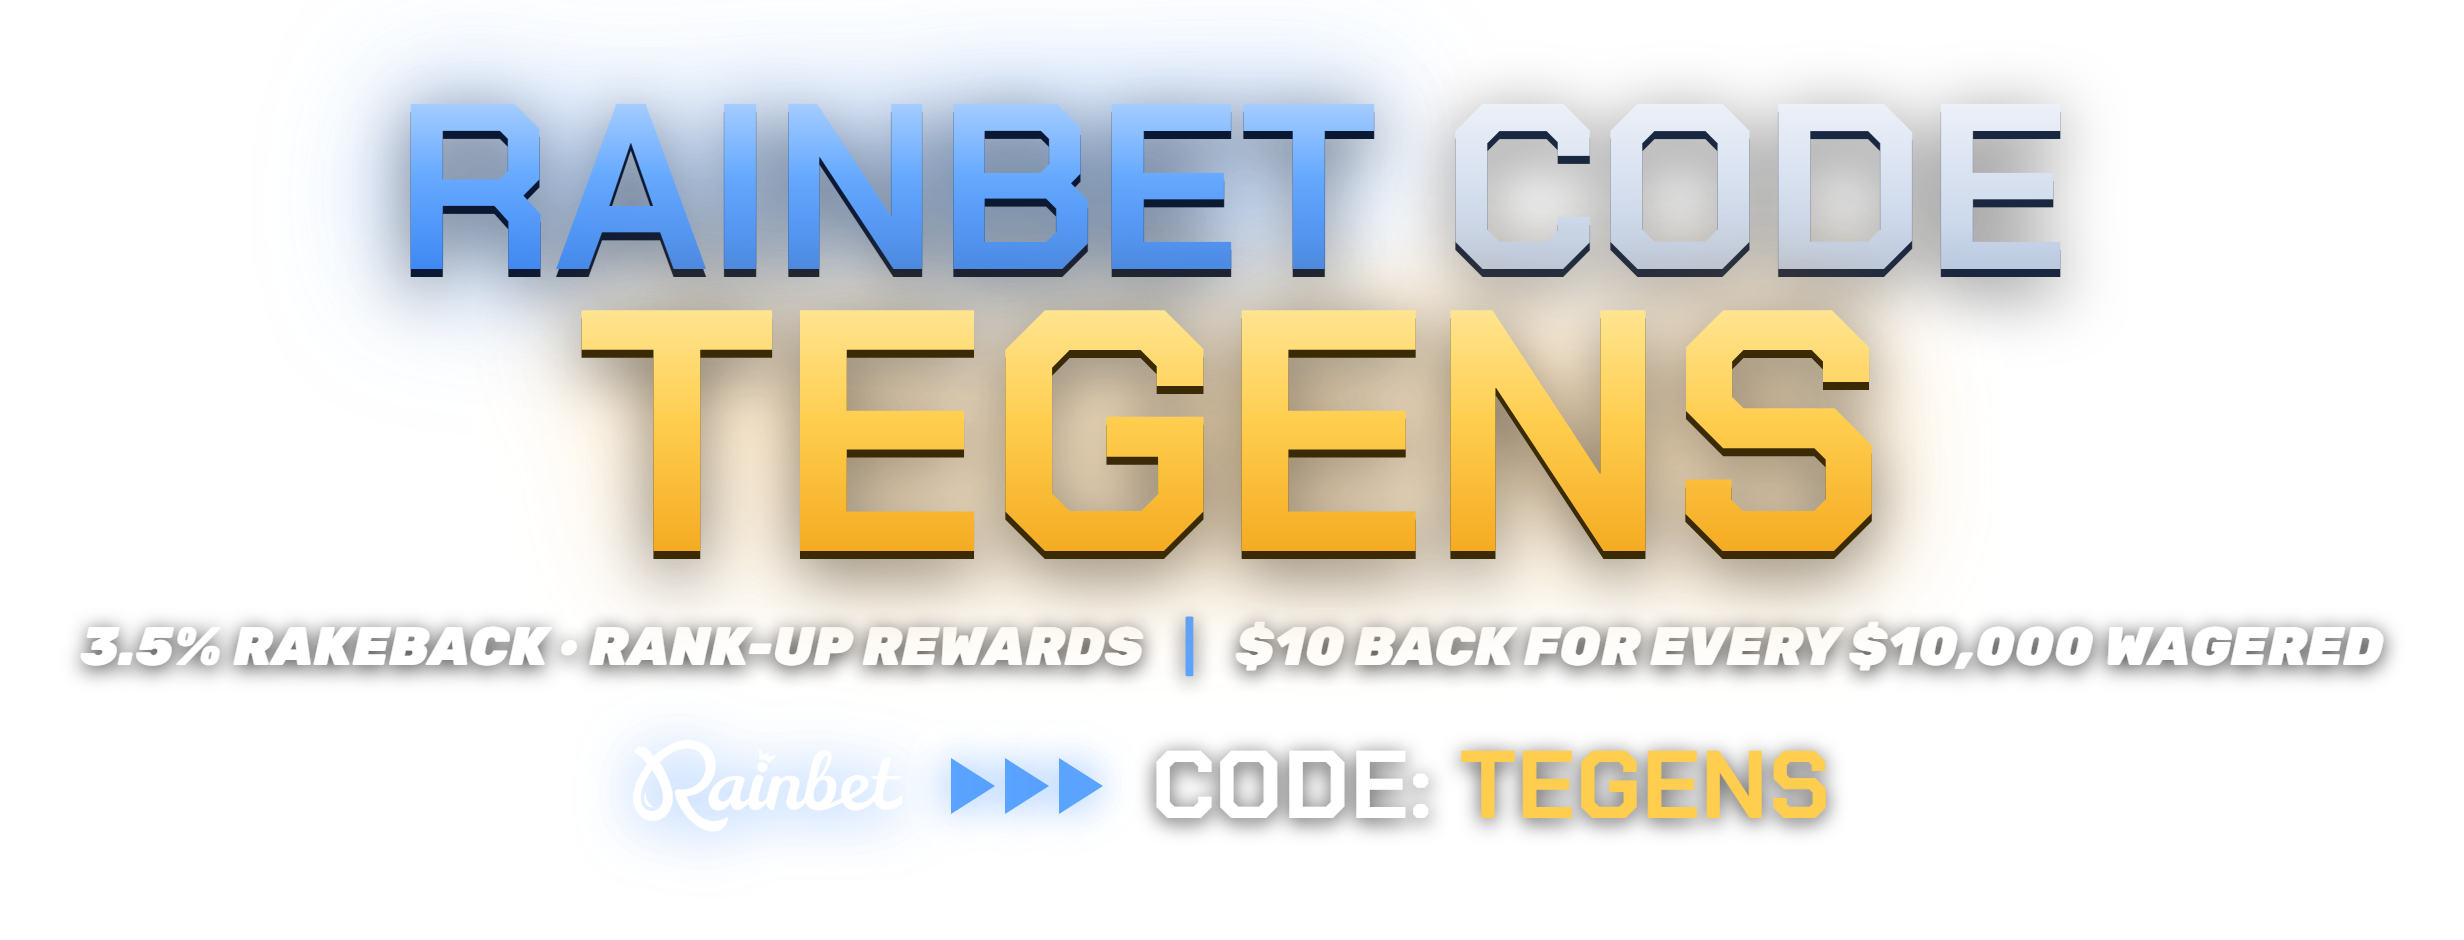
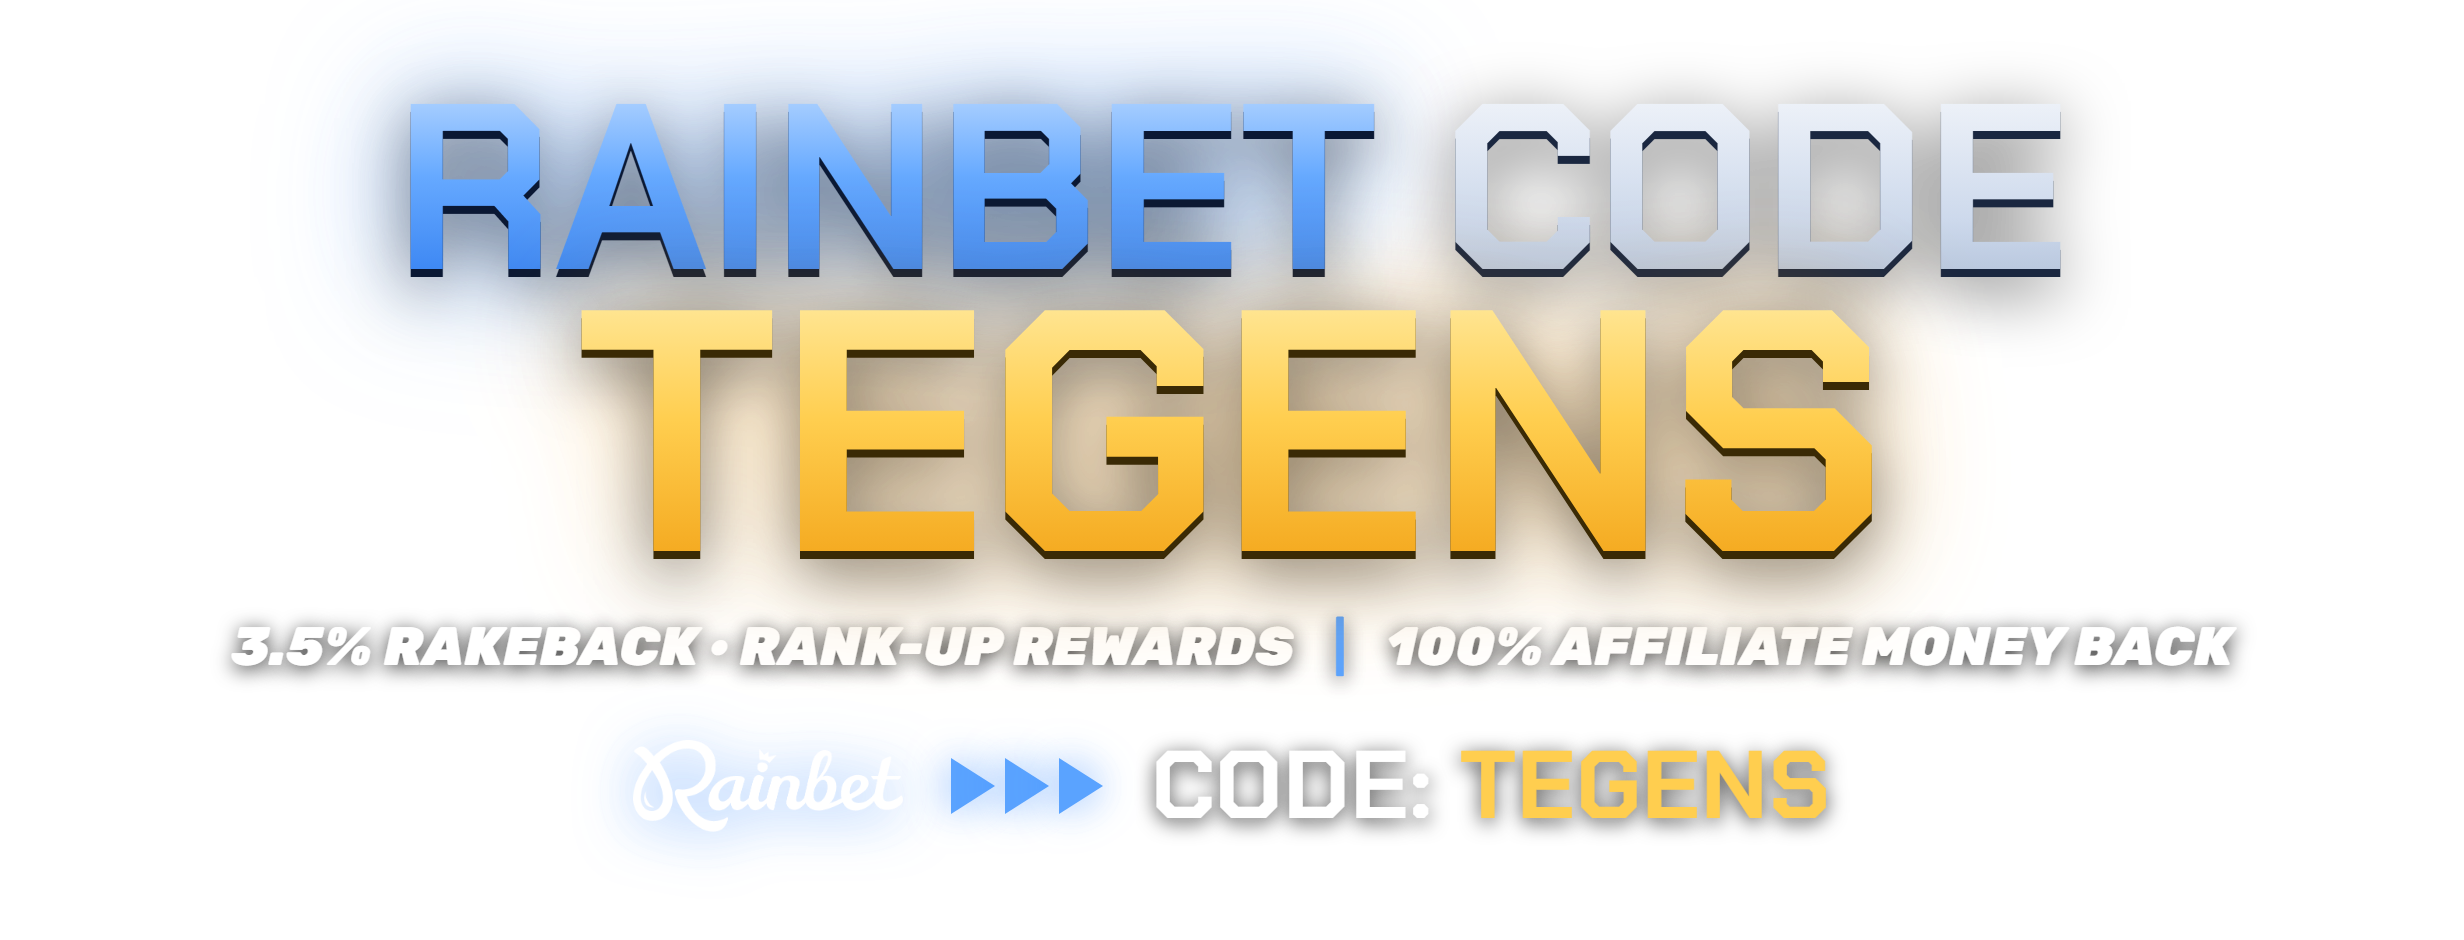
Update tagline to "100% Affiliate Money Back" on Rainbet code graphic

Changed region(s): [[0.0312, 0.6479, 0.9688, 0.7404]]

diff --git a/marketing/tegens-rainbet-code-text.html b/marketing/tegens-rainbet-code-text.html
@@ -45,7 +45,7 @@
       <span class="row row1"><span class="gradb">RAINBET</span> <span class="silv">CODE</span></span>
       <span class="row row2 goldg">TEGENS</span>
     </div>
-    <div class="sub">3.5% RAKEBACK &middot; RANK-UP REWARDS <span class="bar">|</span> $10 BACK FOR EVERY $10,000 WAGERED</div>
+    <div class="sub">3.5% RAKEBACK &middot; RANK-UP REWARDS <span class="bar">|</span> 100% AFFILIATE MONEY BACK</div>
     <div class="foot">
       <img class="rblogo" src="https://raw.githubusercontent.com/aspct49-dev/tegens/main/public/rainbet_logo.webp" alt="Rainbet" />
       <span class="arrows"><i></i><i></i><i></i></span>